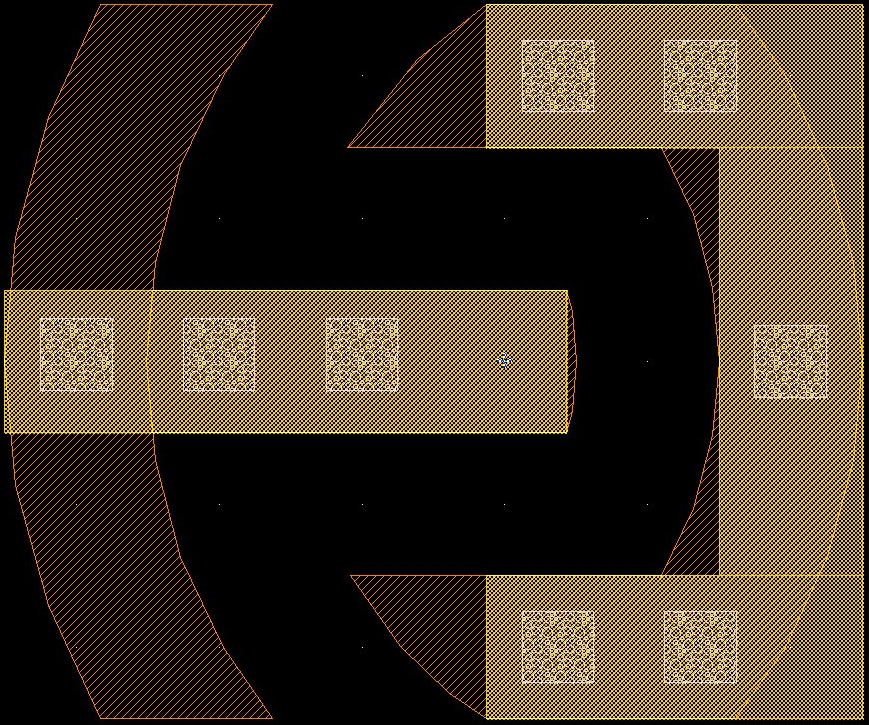
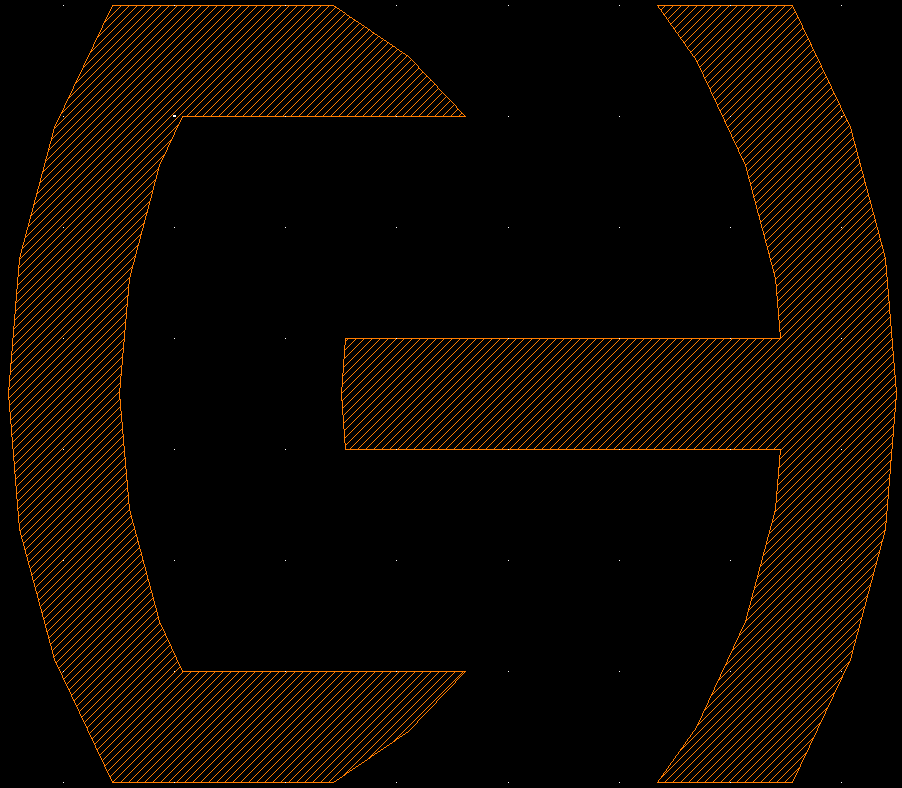
new electrode pics

diff --git a/thesis/characterization.tex b/thesis/characterization.tex
@@ -118,19 +118,26 @@ Sensor sites 17 and 8 had the best results. Since those sensors have different e
 
 \section{Electrode Orientation}
 
-In addition to the characterizations above, DPV tests were done to compare working-electrode areas within one sensor site, and auxilliary and reference electrode configurations. Each sensor site contains four working-electrode areas. There are four types of working-electrode configurations and four types of sensor site configurations. The working electrodes are either a 3-electrode system or a 4-electrode system. There is one type of 3-electrode system. There are three types of 4-electrode systems, which will be called ``C'' (Figure \ref{4-C}), ``inverse C'' (Figure \ref{4-C}), ``and F'' (Figure \ref{4-F}), due to the electrode shapes. Areas of the working electrodes are listed in Table \ref{electrode-area}.
+In addition to the characterizations above, DPV tests were done to compare working-electrode areas within one sensor site, and auxilliary and reference electrode configurations. Each sensor site contains four working-electrode areas. There are four types of working-electrode configurations and four types of sensor site configurations. The working electrodes are either a 3-electrode system or a 4-electrode system. There is one type of 3-electrode system. There are three types of 4-electrode systems, which will be called ``C'' (Figure \ref{4-C}), ``inverse C'' (Figure \ref{4-I}), ``and F'' (Figure \ref{4-F}), due to the electrode shapes. Areas of the working electrodes are listed in Table \ref{electrode-area}.
 
 \begin{figure}
 	\centering
 	\includegraphics[width=0.3\linewidth]{figures/4-C.png}
-	\caption[``Inverse C''-type working-electrode pair.]{``Inverse C''-type working-electrode pair. Orange area is the electrode surface. Yellow area connects to the probe pads on the exterior of the chip. White area is contact to connect the yellow to the orange. ``C''-type is this rotated 180 degrees.}
+	\caption{``C''-type working-electrode pair.}
 	\label{4-C}
 \end{figure}
 
 \begin{figure}
 	\centering
+	\includegraphics[width=0.3\linewidth]{figures/4-I.png}
+	\caption{``Inverse C''-type working-electrode pair.}
+	\label{4-I}
+\end{figure}
+
+\begin{figure}
+	\centering
 	\includegraphics[width=0.3\linewidth]{figures/4-F.png}
-	\caption[``F''-type working-electrode pair.]{``F''-type working-electrode pair. Orange area is the electrode surface. Yellow area connects to the probe pads on the exterior of the chip. White area is contact to connect the yellow to the orange.}
+	\caption{``F''-type working-electrode pair.}
 	\label{4-F}
 \end{figure}
 
